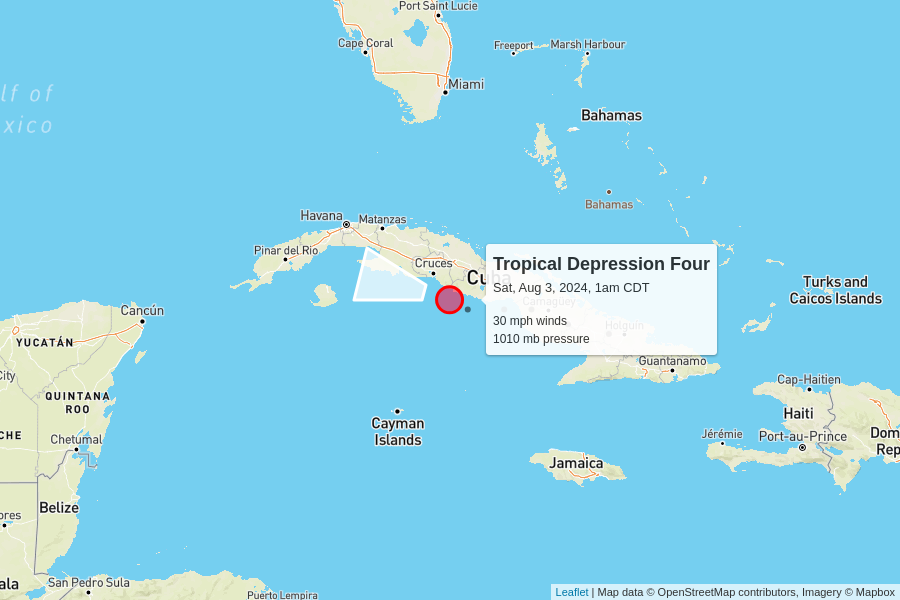
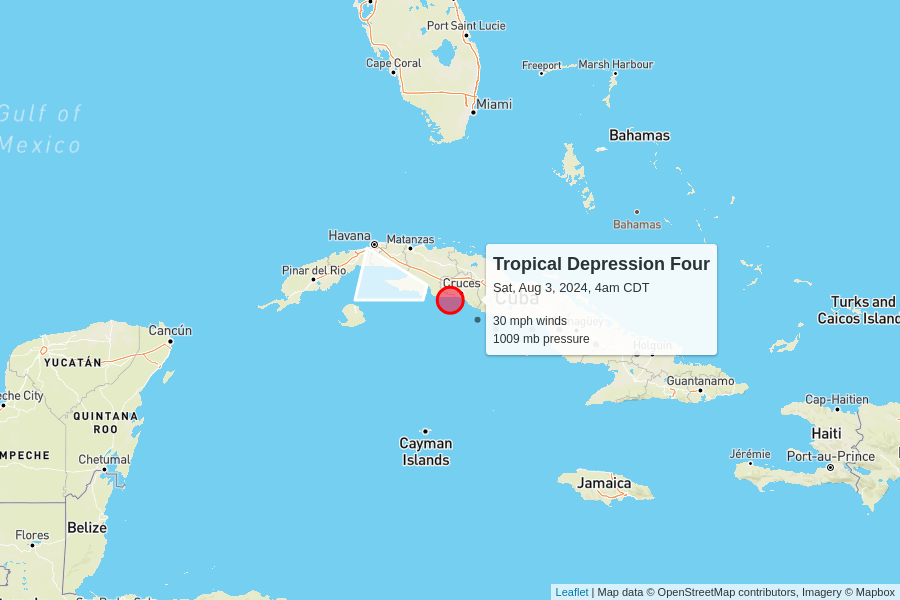
automatic update

diff --git a/docs/index.html b/docs/index.html
@@ -102,7 +102,7 @@
         <td colspan="6" class="storm category-0" >
           <h2>
             Tropical Depression Four
-            <p class="updated">last updated <span data-time>2024-08-03T06:00:00.000Z</span></p>
+            <p class="updated">last updated <span data-time>2024-08-03T09:00:00.000Z</span></p>
           </h2>
         </td>
       </tr>
@@ -118,9 +118,9 @@
       <tr>
         <td class="spacer"></td>
         <td>30 mph<br>0 mph since last update</td>
-        <td>1010 mb<br>0 mb since last update</td>
+        <td>1009 mb<br>-1 mb since last update</td>
         <td>
-          17 mph to the west-northwest
+          16 mph to the west-northwest
           <br/>
           <span style="display: inline-block; font-size: 1.5em; transform: rotate(285deg);">↑</span>
         </td>
